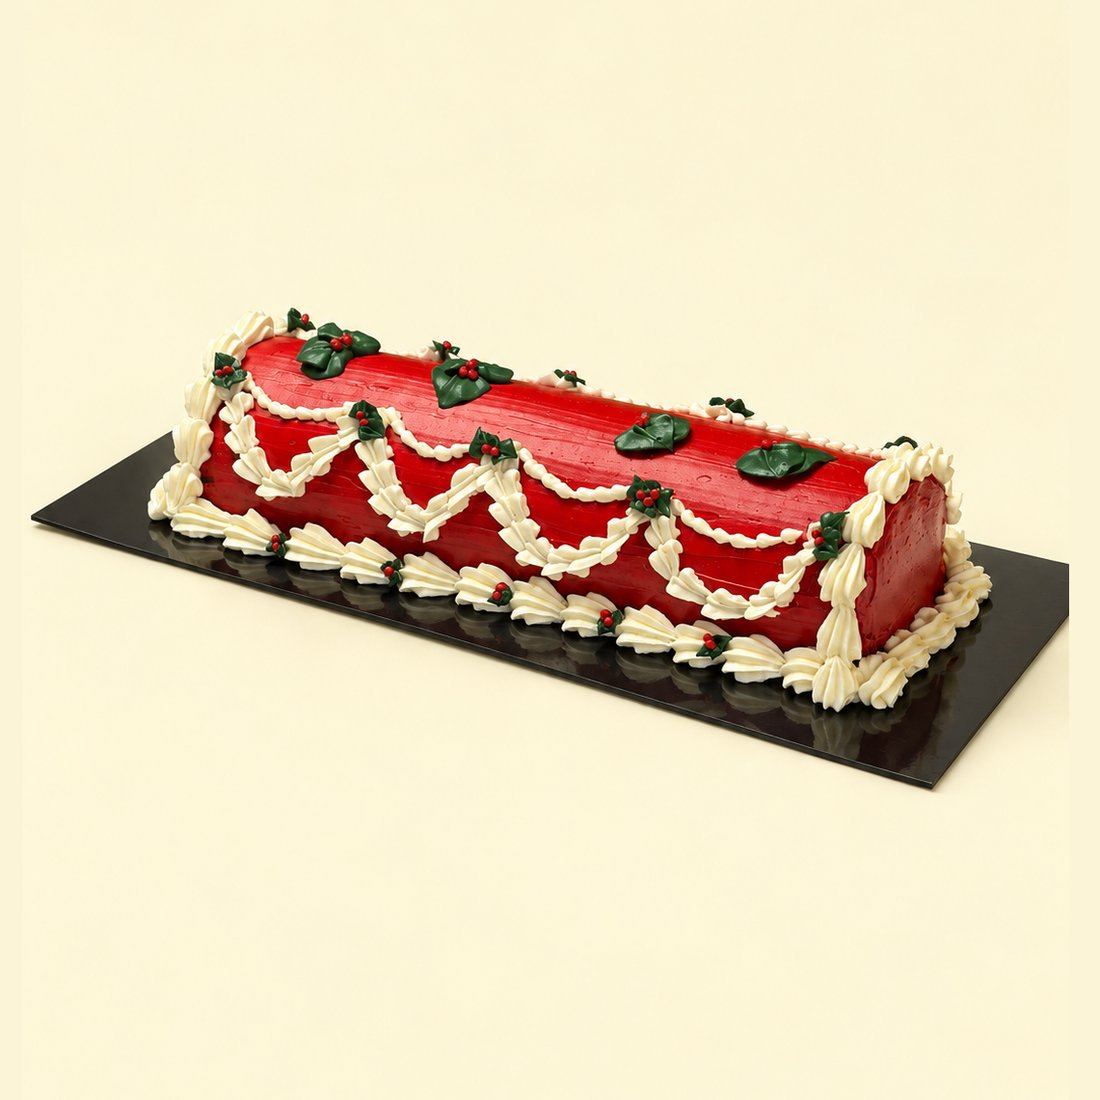
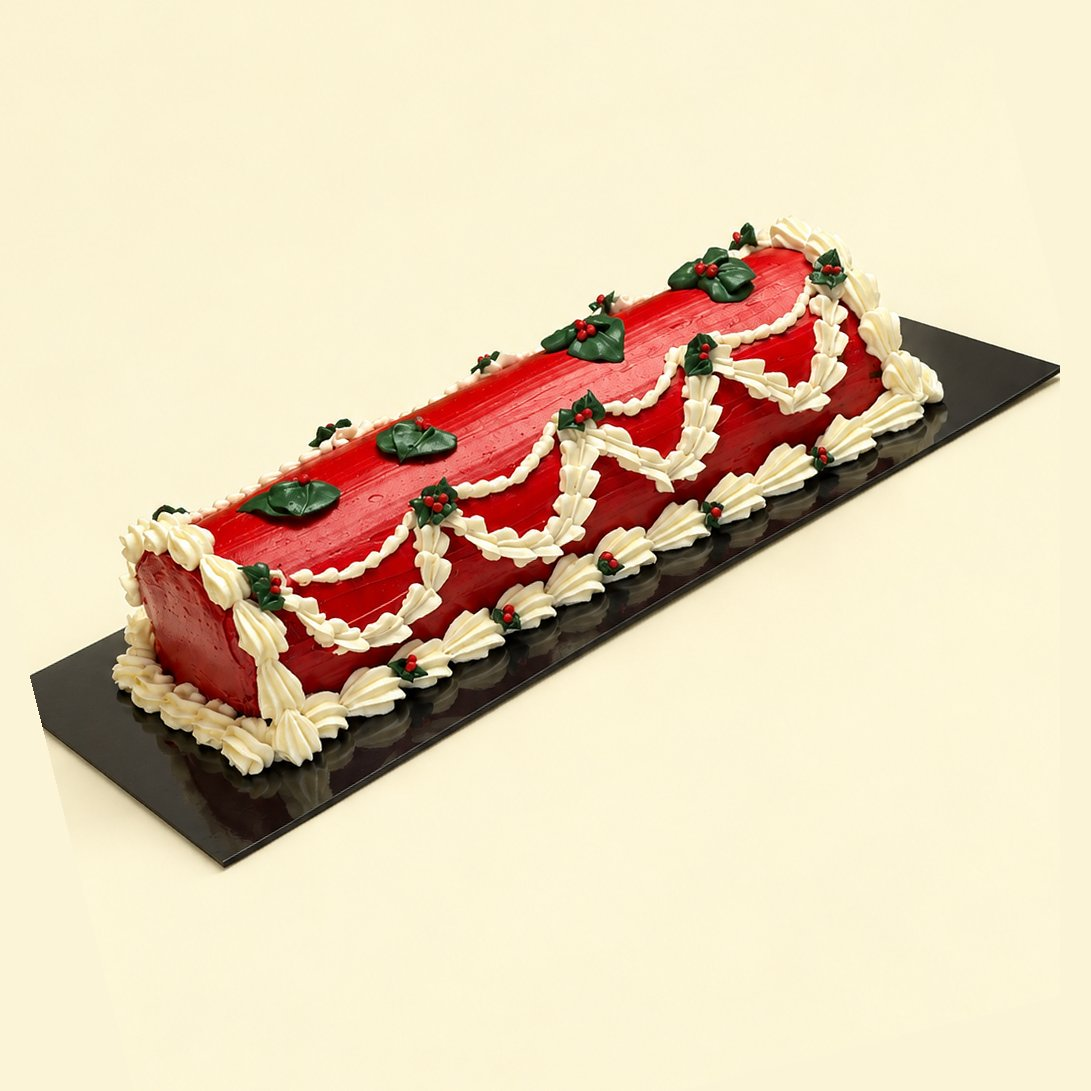
Christmas page: Casse-Noisette in the middle, same angle as other logs; Christmas Moments strip

diff --git a/src/pages/Christmas.tsx b/src/pages/Christmas.tsx
@@ -14,7 +14,7 @@ import { useChristmasVisible } from "@/hooks/useChristmasVisible";
 import { cn } from "@/lib/utils";
 import {
   CHRISTMAS_CAKES, CHRISTMAS_LOGS, CHRISTMAS_LOG_PRICE, CAKE_FLAVOURS, LOG_FLAVOURS, SPONGES, LOG_INTRO, CLASSIC_FILLING,
-  CHRISTMAS_SIZE_LABELS, CHRISTMAS_SIZE_ORDER, fromPrice, cakePhotos,
+  CHRISTMAS_SIZE_LABELS, CHRISTMAS_SIZE_ORDER, fromPrice, cakePhotos, CHRISTMAS_MOMENTS,
   type ChristmasSize, type ChristmasFlavour,
 } from "@/data/christmas";
 
@@ -110,6 +110,40 @@ function ProductCard({ name, price, images, selected, onClick }: {
         </div>
       </div>
     </div>
+  );
+}
+
+// Bandeau de photos en bas de page, même présentation que « Dot Cake Moments ».
+function ChristmasMoments() {
+  const { t } = useLang();
+  const scrollRef = useRef<HTMLDivElement>(null);
+  const scroll = (direction: "left" | "right") => {
+    scrollRef.current?.scrollBy({ left: direction === "left" ? -320 : 320, behavior: "smooth" });
+  };
+  if (CHRISTMAS_MOMENTS.length === 0) return null;
+  return (
+    <section className="space-y-6">
+      <h2 className="font-sans text-xl font-semibold text-center uppercase tracking-[0.105em] text-foreground">
+        Christmas Moments
+      </h2>
+      <div className="relative overflow-hidden">
+        <button onClick={() => scroll("left")} aria-label={t("Previous", "Précédent")}
+          className="absolute left-2 top-1/2 -translate-y-1/2 z-10 bg-background/80 hover:bg-background rounded-none p-2 shadow-md">
+          <ChevronLeft className="h-5 w-5 text-foreground" />
+        </button>
+        <div ref={scrollRef} className="flex gap-4 overflow-x-auto scroll-smooth px-3" style={{ scrollbarWidth: "none", msOverflowStyle: "none" }}>
+          {CHRISTMAS_MOMENTS.map((photo, index) => (
+            <div key={index} className="flex-shrink-0 w-64 h-64 overflow-hidden">
+              <img src={photo} alt={`Christmas Moment ${index + 1}`} loading="lazy" className="w-full h-full object-cover" />
+            </div>
+          ))}
+        </div>
+        <button onClick={() => scroll("right")} aria-label={t("Next", "Suivant")}
+          className="absolute right-2 top-1/2 -translate-y-1/2 z-10 bg-background/80 hover:bg-background rounded-none p-2 shadow-md">
+          <ChevronRight className="h-5 w-5 text-foreground" />
+        </button>
+      </div>
+    </section>
   );
 }
 
@@ -388,6 +422,10 @@ const Christmas = () => {
           </div>
         </section>
       )}
+
+      <div className="container mx-auto px-6 py-8 md:py-16">
+        <ChristmasMoments />
+      </div>
     </Layout>
   );
 };

diff --git a/src/data/christmas.ts b/src/data/christmas.ts
@@ -20,6 +20,8 @@ import bucheJardinHiver1 from "@/assets/buche-jardin-hiver-1.jpg";
 import bucheJardinHiver2 from "@/assets/buche-jardin-hiver-2.jpg";
 import bucheEtoileNoel1 from "@/assets/buche-etoile-noel-1.jpg";
 import bucheEtoileNoel2 from "@/assets/buche-etoile-noel-2.jpg";
+import noelMomentRoyal from "@/assets/noel-moment-royal.jpg";
+import noelMomentPereNoel from "@/assets/noel-moment-pere-noel.jpg";
 import noelGui1 from "@/assets/noel-gui-1.jpg";
 import noelGui2 from "@/assets/noel-gui-2.jpg";
 import noelGui3 from "@/assets/noel-gui-3.jpg";
@@ -67,9 +69,15 @@ export const CHRISTMAS_CAKES: ChristmasCake[] = [
 export const CHRISTMAS_LOG_PRICE = 65;
 
 export const CHRISTMAS_LOGS: ChristmasLog[] = [
-  { id: "buche-casse-noisette", nameFr: "Casse-Noisette", nameEn: "Nutcracker", image: bucheCasseNoisette1, moreImages: [bucheCasseNoisette2] },
   { id: "buche-jardin-hiver", nameFr: "Le Jardin d’Hiver", nameEn: "Winter Garden", image: bucheJardinHiver1, moreImages: [bucheJardinHiver2] },
+  { id: "buche-casse-noisette", nameFr: "Casse-Noisette", nameEn: "Nutcracker", image: bucheCasseNoisette1, moreImages: [bucheCasseNoisette2] },
   { id: "buche-etoile-noel", nameFr: "Étoile de Noël", nameEn: "Christmas Star", image: bucheEtoileNoel1, moreImages: [bucheEtoileNoel2] },
+];
+
+// « Christmas Moments » : bandeau de photos en bas de la page (comme
+// « Dot Cake Moments »). Ajouter les nouvelles photos ici.
+export const CHRISTMAS_MOMENTS: string[] = [
+  noelMomentPereNoel, noelGui1, bucheCasseNoisette2, noelMomentRoyal, bucheJardinHiver2, noelGui3, bucheEtoileNoel2,
 ];
 
 // Parfums de Noël (garniture), avec une ligne courte qui donne envie.
